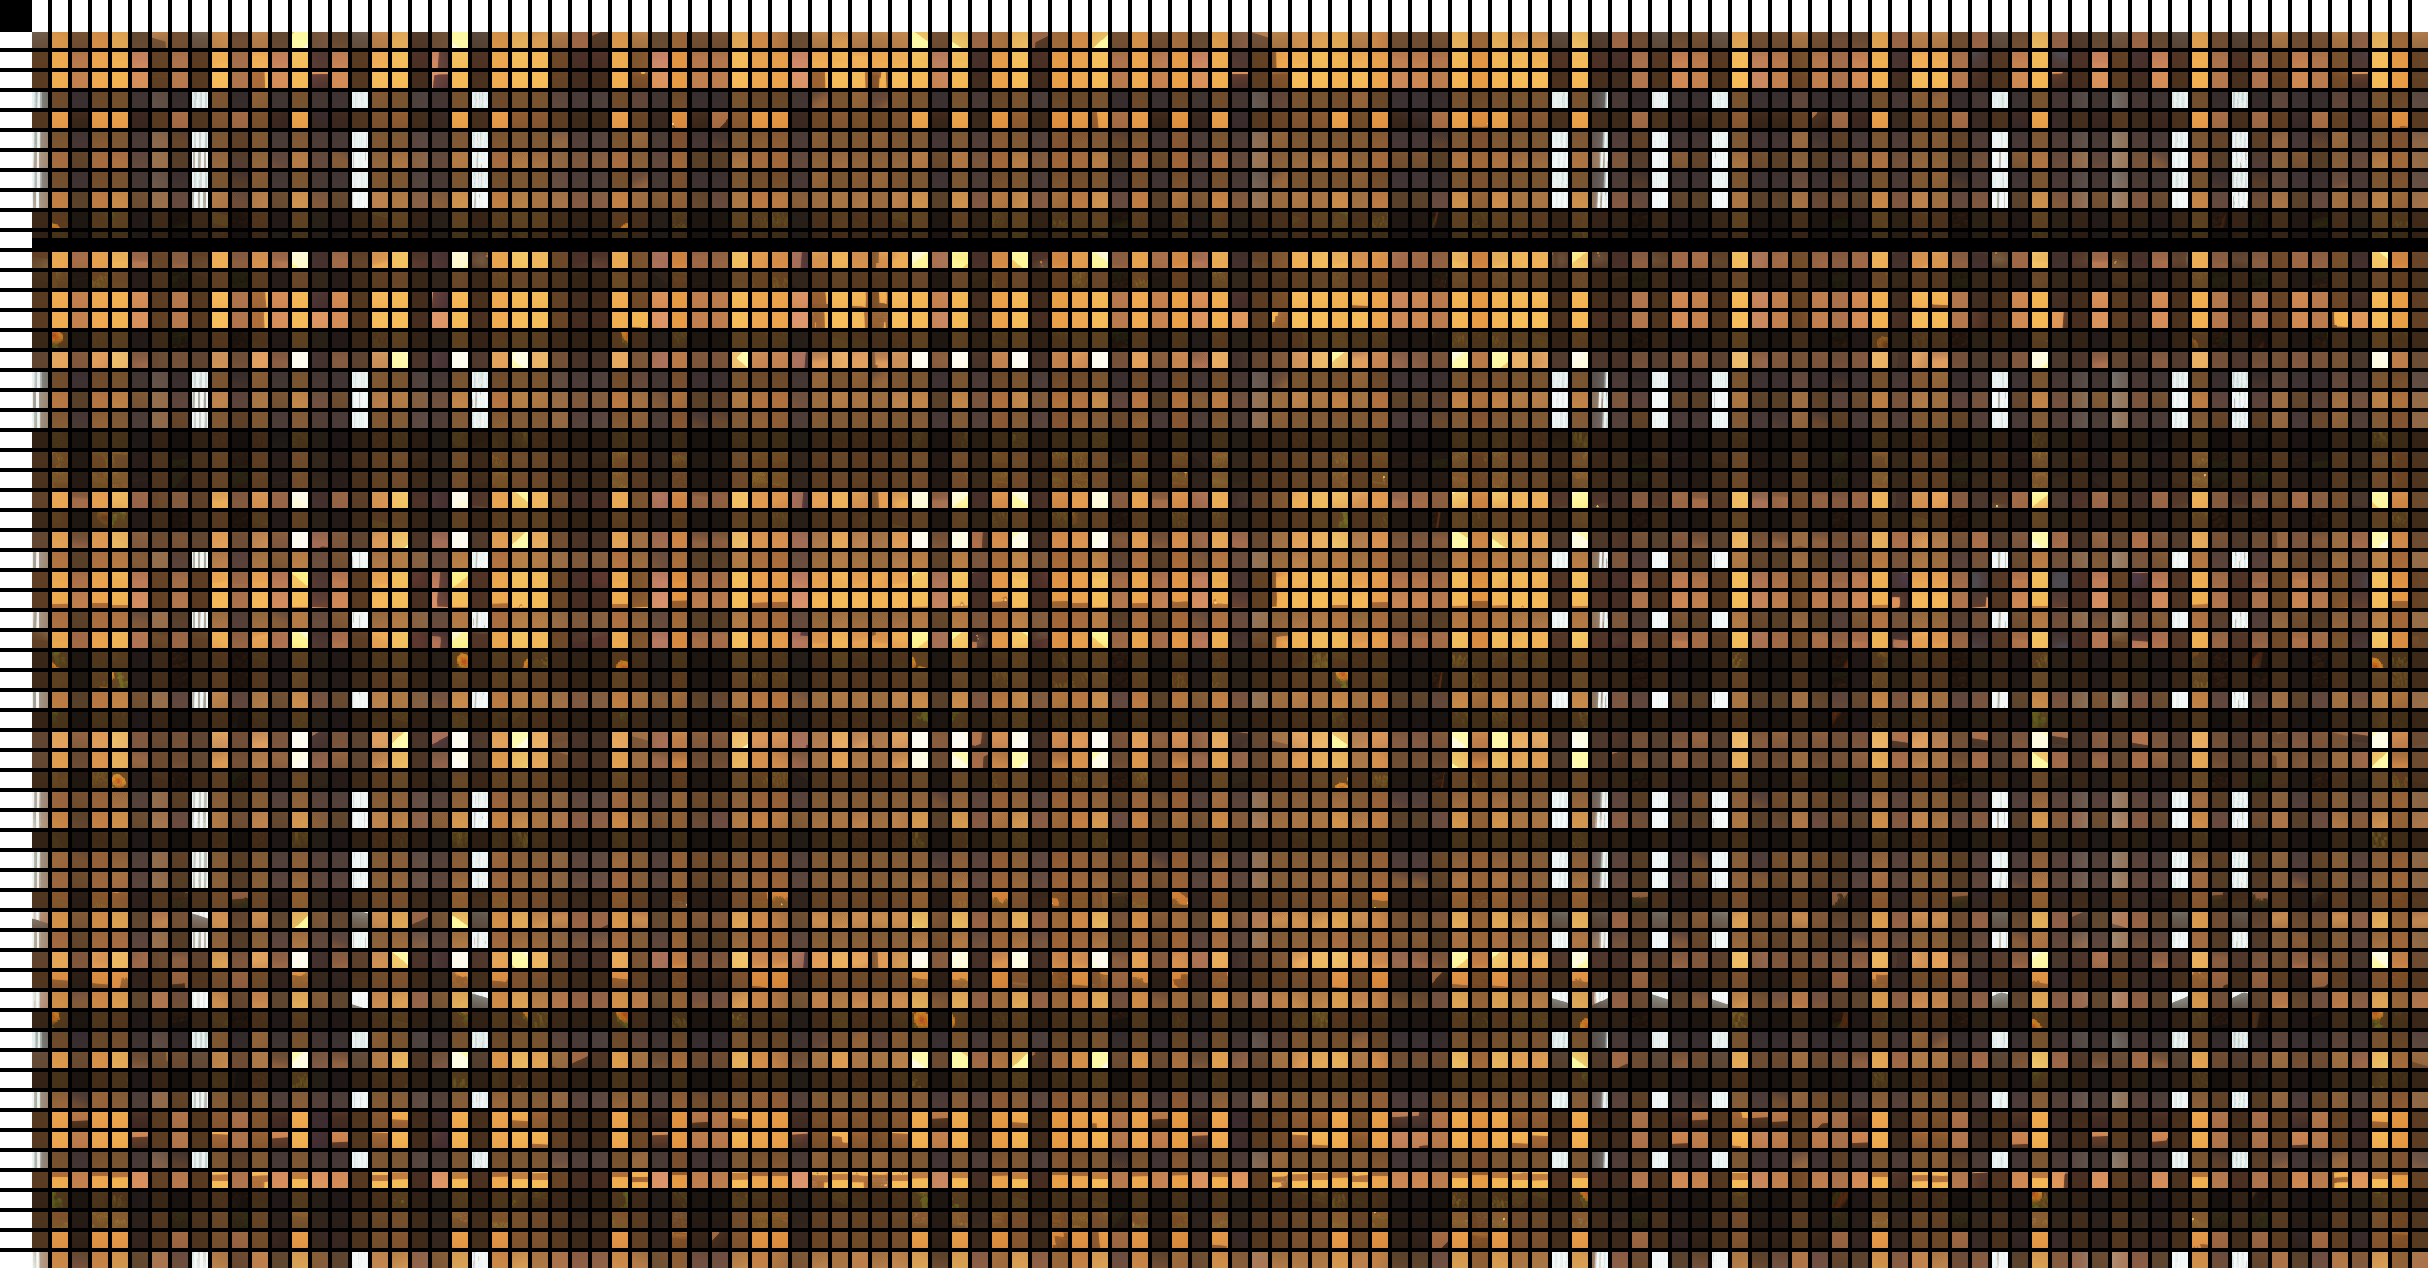
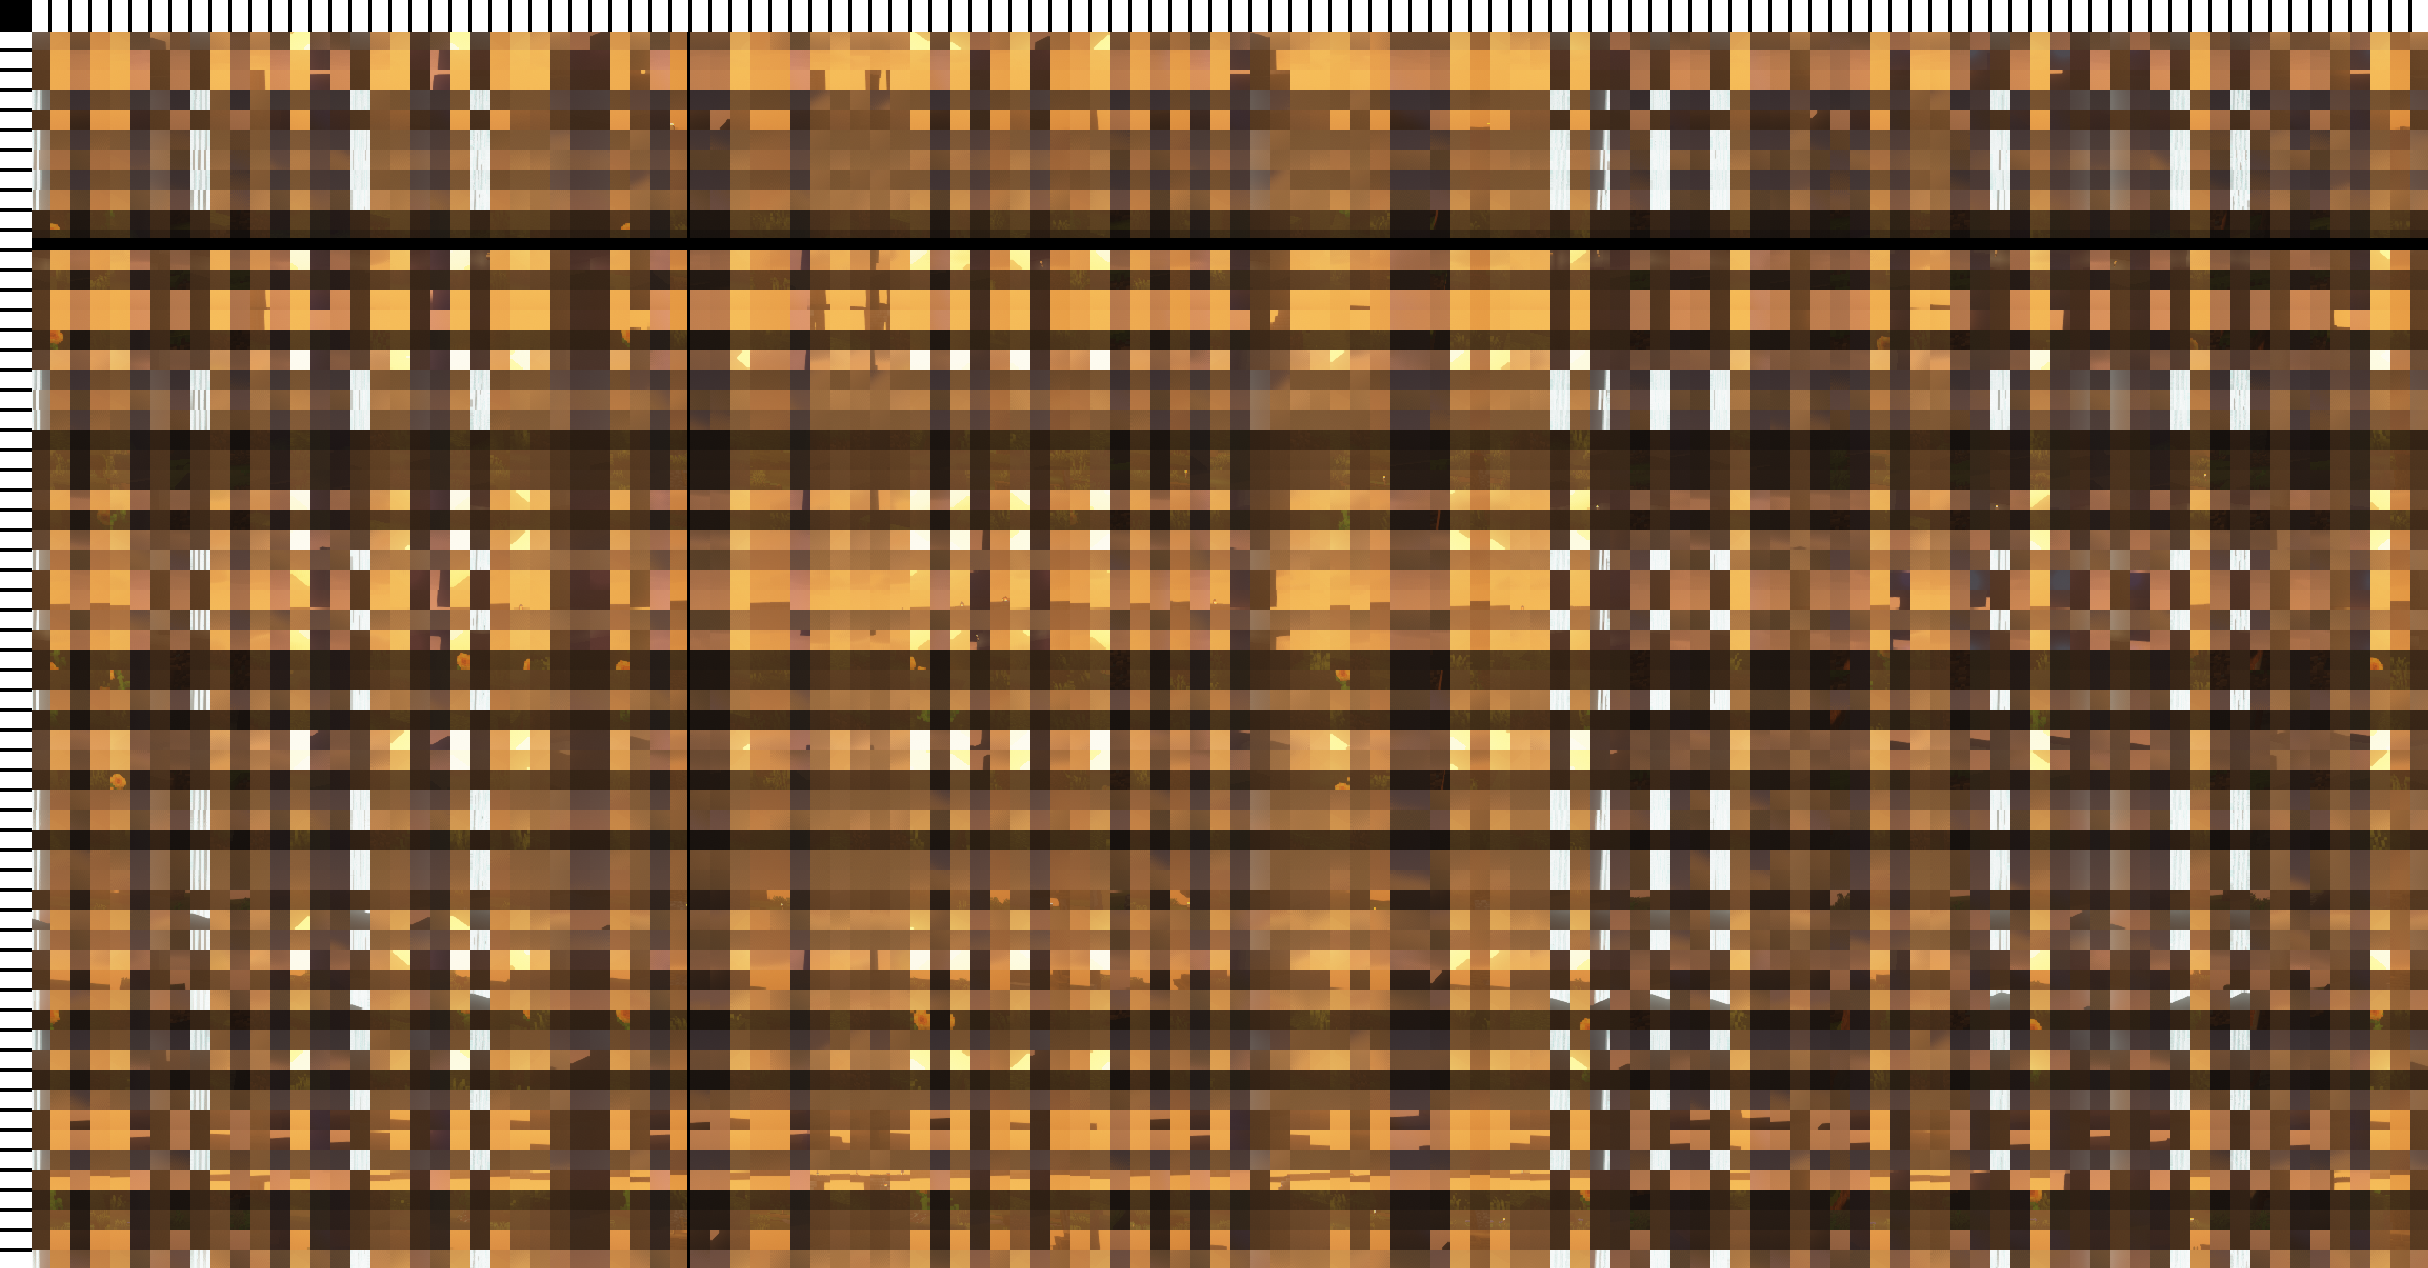
add gap fillings

diff --git a/ruler.py b/ruler.py
@@ -59,16 +59,44 @@ def add_ruler(img: Image, info: BlocksInfo, ruler_size: int) -> None:
 
     for y1, y2 in info.y_blocks:
         img.paste((255, 255, 255), box(0, y1, ruler_size - 1, y2))
+        
+def fill_gaps(img: Image.Image, blocks: BlocksInfo):
+    """
+    原地将块间空隙填充为最近邻像素
+    """
+    
+    for (_, pre_x2), (next_x1, _) in zip(blocks.x_blocks, blocks.x_blocks[1:]):
+        mid = (pre_x2 + next_x1) // 2
+        
+        left_crop = img.crop(box(pre_x2, 0, pre_x2, img.height - 1))
+        for x in range(pre_x2 + 1, mid + 1):
+            img.paste(left_crop, (x, 0))
+            
+        right_crop = img.crop(box(next_x1, 0, next_x1, img.height - 1))
+        for x in range(mid + 1, next_x1):
+            img.paste(right_crop, (x, 0))
+            
+    for (_, pre_y2), (next_y1, _) in zip(blocks.y_blocks, blocks.y_blocks[1:]):
+        mid = (pre_y2 + next_y1) // 2
+        
+        up_crop = img.crop(box(0, pre_y2, img.width - 1, pre_y2))
+        for y in range(pre_y2 + 1, mid + 1):
+            img.paste(up_crop, (0, y))
+            
+        down_crop = img.crop(box(0, next_y1, img.width - 1, next_y1))
+        for y in range(mid + 1, next_y1):
+            img.paste(down_crop, (0, y))
 
 def add_grid_and_ruler(img: Image.Image, block_size: tuple[int, int], grid_width: int, ruler_size: int) -> tuple[Image.Image, BlocksInfo]:
     info = get_stacked_equal_blocks_of(img.size, block_size)
     virt_size = get_virt_size(block_size, img.size)
 
     output_img, output_info = add_grid(img, info, grid_width, ruler_size, virt_size)
-    print(output_info)
+    # print(output_info)
+    fill_gaps(output_img, output_info)
     add_ruler(output_img, output_info, ruler_size)
     return output_img, output_info
-
+        
 
 # 以下为解码
 

diff --git a/confusion.py b/confusion.py
@@ -12,7 +12,7 @@ def confuse(img: Image.Image, block_size: tuple[int, int], grid_width: int, rule
     blocks = get_stacked_equal_blocks_of(img.size, block_size)
 
     px, py = random_permutations((len(blocks.x_blocks), len(blocks.y_blocks)), seed)
-    print(px, py)
+    # print(px, py)
 
     output_img = shuffle_blocks_by(img, blocks, px, py, get_virt_size(block_size, img.size))
     output_img, _ = add_grid_and_ruler(output_img, block_size, grid_width, ruler_size)
@@ -27,7 +27,7 @@ def deconfuse(img: Image.Image, seed) -> Image.Image | None:
     output_img, stacked_blocks = delete_ruler_and_grid(img, blocks)
 
     px, py = random_permutations((len(blocks.x_blocks), len(blocks.y_blocks)), seed)
-    print(px, py)
+    # print(px, py)
 
     return shuffle_blocks_by(output_img, stacked_blocks, inverse(px), inverse(py))
 
@@ -35,6 +35,7 @@ def deconfuse(img: Image.Image, seed) -> Image.Image | None:
 if __name__ == '__main__':
     img = Image.open('test.png')
     con_img = confuse(img, (16, 16), 4, 16, 0)
+    con_img.show()
 
     # 测试压缩图像鲁棒性
     con_img.resize((img.width // 2, img.height // 2)).save('test_con.jpg', optimize=True, quality=60)

diff --git a/__generate_readme_pictures.py b/__generate_readme_pictures.py
@@ -5,6 +5,7 @@ from config import *
 img = Image.open('example/image.png')
 con_img = confuse(img, (BLOCK_SIZE, BLOCK_SIZE), GRID_WIDTH, RULER_SIZE, DEFAULT_SEED)
 con_img.save('example/confused.png')
-con_img.resize((img.width // 3, img.height // 3)).save('example/compressed.jpg', optimize=True, quality=30)
+con_img.resize((img.width // 2, img.height // 2)).save('example/compressed.jpg', optimize=True, quality=50)
 con_compressed = Image.open('example/compressed.jpg')
 deconfuse(con_compressed, DEFAULT_SEED).save('example/final.jpg')
+img.resize((img.width // 2, img.height // 2)).save('example/comparison.jpg', optimize=True, quality=50)

diff --git a/config.py b/config.py
@@ -5,8 +5,8 @@ BLOCK_SIZE = 16
 GRID_WIDTH = 4
 RULER_SIZE = 32
 
-BLACK_THRESHOLD = 180
-WHITE_THRESHOLD = 181
+BLACK_THRESHOLD = 127
+WHITE_THRESHOLD = 128
 
 assert BLACK_THRESHOLD < WHITE_THRESHOLD, "Black threshold should be less than white threshold"
 

diff --git a/README.md b/README.md
@@ -15,6 +15,8 @@ python __main__.py
 
 ![](example/confused.png)
 
-缩放 1/3，质量 30：
+缩放 1/2，质量 50：
 
 ![](example/compressed.jpg) → ![](example/final.jpg)
+
+我们发现只是因为强行打破像素连续性，导致压缩后出现了噪点。
